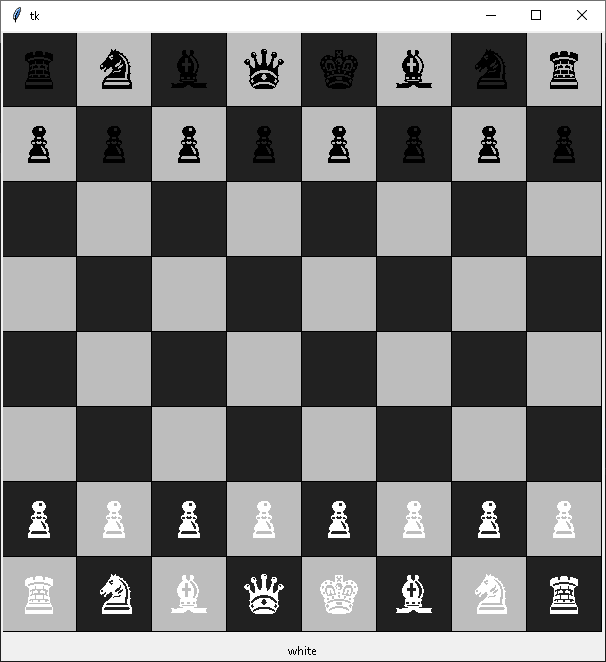
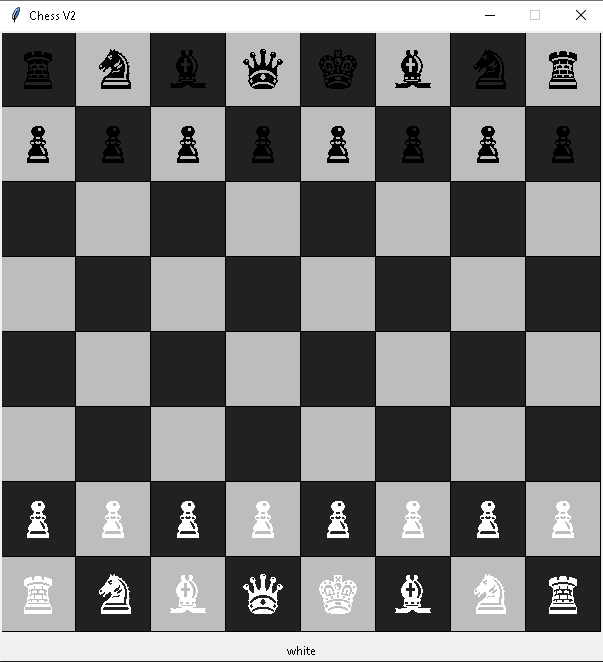
update readme

diff --git a/chess.py b/chess.py
@@ -205,6 +205,8 @@ class Board(MoveValidation):
 
 def main():
     root = tk.Tk()
+    root.title('Chess V2')
+    root.resizable(width=False, height=False)
     Board(root)
     root.mainloop()
 
